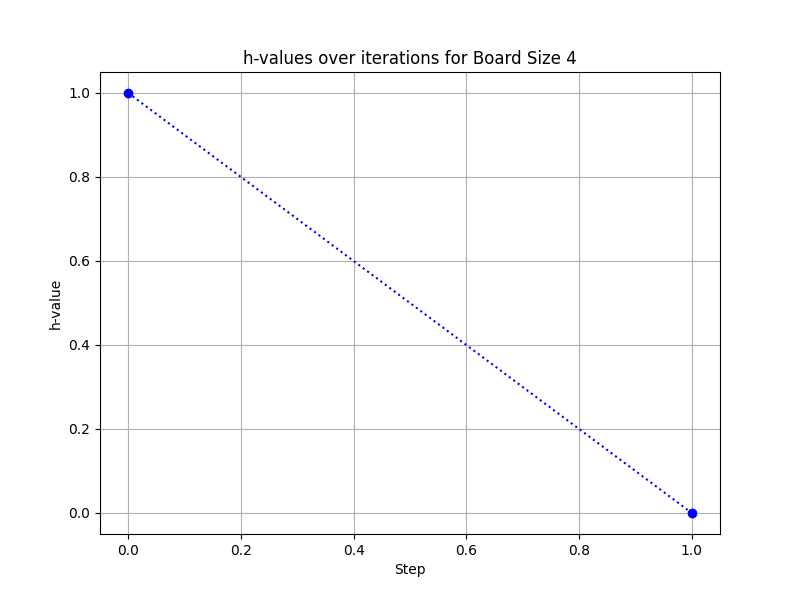
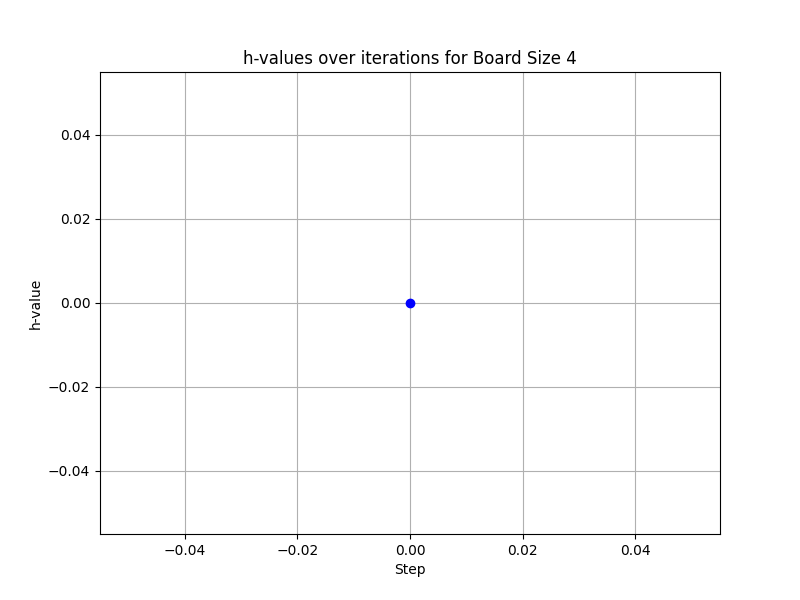
Added genetics and images

diff --git a/tp5-busquedas-locales/code/local_search_algo/genetic/genetic.py b/tp5-busquedas-locales/code/local_search_algo/genetic/genetic.py
@@ -1,131 +1,122 @@
 from chess_board_state import ChessBoardState
 from local_search_algo.utils import random_successor_chess_board
 from local_search_algo.local_search_result import LocalSearchResult
-from typing import List, Tuple
 import random
 import time
-import math
 
 
-def populate(
-    initial_board, 
-    population_size) -> List[ChessBoardState]:
-    """Given the initial board, generates a random population"""
+def get_best_individual(population):
+    return min(population, key=lambda individual: fitness(individual))
 
-    population = [initial_board]
 
-    for _ in range(population_size - 1):
-        population.append(random_successor_chess_board(initial_board))
-
-    return population
-
-def selection_ranking(population, size):
+def get_mating_pool(population):
+    """Returns mating individuals by their rank"""
     ranked_population = sorted(
         population, 
         key=lambda board: board.cached_threats)
 
-    num_individuals = len(population)
-    probabilities = [1/(i+1) for i in range(num_individuals)]
-    selected_individuals = random.choices(
+    pool_size = len(population)
+    probabilities = [1/(i+1) for i in range(pool_size)]
+    mating_pool = random.choices(
         ranked_population, 
         weights=probabilities, 
-        k=size)
-    return selected_individuals
+        k=pool_size)
+    
+    return mating_pool
 
-def crossover(parent1, parent2) -> Tuple[ChessBoardState, ChessBoardState]:
+
+def fitness(individual) -> float:
+    return individual.cached_threats
+
+
+def reproduce(individual_x, individual_y):
+    """Crossover operation"""
+    n = individual_x.size
 
     # Crossover index
-    i = random.randrange(1, parent1.size)
-
-    child1_columns = parent1.columns[:i] + parent2.columns[i:] 
-    child2_columns = parent2.columns[:i] + parent1.columns[i:]
-    return (
-        ChessBoardState(
-            size=parent1.size, 
-            columns=child1_columns),
-        ChessBoardState(
-            size=parent1.size, 
-            columns=child2_columns))
-
-def uniform_crossover(parent1, parent2):
-    child1_columns = []
-    child2_columns = []
-    for i in range(parent1.size):
-        if random.random() < 0.5:
-            child1_columns.append(parent1.columns[i])
-            child2_columns.append(parent2.columns[i])
-        else:
-            child1_columns.append(parent2.columns[i])
-            child2_columns.append(parent1.columns[i])
-    return (
-        ChessBoardState(
-            size=parent1.size, 
-            columns=child1_columns),
-        ChessBoardState(
-            size=parent1.size, 
-            columns=child2_columns))
+    i = random.randrange(1, n)
+    child_columns = individual_x.columns[:i] + individual_y.columns[i:] 
+    return ChessBoardState(size=n, columns=child_columns)
 
 
-def mutate(board):
-    """Swaps two columns"""
-    n = board.size
-    mutated_cols = board.columns[:]
-    col1, col2 = random.sample(range(n), 2)
-    mutated_cols[col1], mutated_cols[col2] = mutated_cols[col2], mutated_cols[col1]
-    return ChessBoardState(
-        size=board.size, 
-        columns=mutated_cols)
+def mutate(individual):
+    """Moves a queen along it's column"""
+    n = individual.size
+    mutation_column_index = random.randrange(0, n)
+    current_row = individual.columns[mutation_column_index]
+
+    # Ensures that a new row value is selected
+    new_row = None
+    while new_row is None or new_row == current_row:
+        new_row = random.randrange(0, n)
+
+    individual.columns[mutation_column_index] = new_row
+    individual.recalculate_threats()
 
 
-def search_best_individual(population):
-    best_board = population[0]
-    best_board.recalculate_threats()
-    for i in range(1, len(population)):
-        board = population[i]
-        board.recalculate_threats()
-        if board.cached_threats < best_board.cached_threats:
-            best_board = board
+def get_next_generation(parents, children, elite_percentage=0.1):
+    """Keeps the best X% of parents and adds children"""
+    elite_size = int(elite_percentage * len(parents))  # Keep top 10% of parents as elite
+    random_size = len(children) - elite_size  # Fill the rest with children
 
-    return best_board
+    sorted_parents = sorted(parents, key=lambda parent: fitness(parent))
+    new_population = sorted_parents[:elite_size]  # Keep the best
+    
+    # Randomly select from the rest of the children to maintain diversity
+    new_population += random.sample(children, random_size)
+    
+    return new_population
+
+
 
 def genetic(
         initial_board: ChessBoardState,
-        maximum_states: int = 100,
-        population_size: int = 50,
-        mutation_rate: float = 0.05) -> LocalSearchResult:
+        maximum_states: int = 200,
+        population_size: int = 200,
+        children_per_generation: int = 200,
+        initial_mutation_rate: float = 0.40) -> LocalSearchResult:
 
     result = LocalSearchResult()
     result.board = initial_board
     t0 = time.time()
-
-    # population = populate(initial_board, population_size)
+    population_size = 30 * initial_board.size
+    children_per_generation = population_size - 10
+    # Creates random population
     population = []
-    for i in range(population_size):
-        population.append(ChessBoardState(initial_board.size, seed=i))
+    for _ in range(population_size):
+        population.append(ChessBoardState(initial_board.size))
+
+    best_individual = None
 
     for generation in range(maximum_states):
 
-        # Checks if there is a solution individual
-        result.board = search_best_individual(population)
-        result.h_values.append(result.board.cached_threats)
-        if result.board.cached_threats == 0:
+        # Checks if there is a solution individual --------------------------------
+        best_individual = get_best_individual(population)
+        result.h_values.append(fitness(best_individual))
+        if fitness(best_individual) == 0:
             break
+        
+        # Creates all the new children --------------------------------------------
+        mutation_rate = initial_mutation_rate * (1.0 - generation / maximum_states)
+        mating_pool = get_mating_pool(population)
+        children = []
+        for _ in range(children_per_generation):
 
-        # Selects the most suitable parents based on their score
-        best_individuals = selection_ranking(population, int(population_size * 0.2))
+            # Selects parents
+            parent1 = random.choice(mating_pool)
+            parent2 = random.choice(mating_pool)
 
-        successors = []
-        for i in range(0, len(population) - len(best_individuals), 2):
-            parent1 = population[i]
-            parent2 = population[i + 1]
-            child1, child2 = uniform_crossover(parent1, parent2)
-            successors.append(child1)
-            successors.append(child2)
-        successors.extend(best_individuals)
-        # Mutation
-        population = [mutate(board) if random.random() < mutation_rate else board for board in population]
-        # population = selection_ranking(population, population_size)
-        population.sort(key=lambda board: board.cached_threats, reverse=True)
+            child = reproduce(parent1, parent2)
+            # Mutates
+            if random.random() < mutation_rate:
+                mutate(child)
+
+            children.append(child)
+
+        # Updates the population with children
+        population = get_next_generation(population, children)
+
     result.traversed_states = generation + 1
     result.time_taken = time.time() - t0
+    result.board = best_individual
     return result

diff --git a/tp5-busquedas-locales/code/main.py b/tp5-busquedas-locales/code/main.py
@@ -56,7 +56,7 @@ def simulated_annealing_test(board):
 
 def genetic_test(board):
     print("RUNNING: GENETIC")
-    result: LocalSearchResult = genetic(board, maximum_states=10)
+    result: LocalSearchResult = genetic(board)
 
     print(f"Traversed {result.traversed_states} states in {result.time_taken} seconds")
 
@@ -114,11 +114,11 @@ def _save_results(results, queen_counts):
 def test_and_save():
 
     queen_counts = [4, 8, 10, 12, 15]
-    maximum_states = 200
+    maximum_states = 800
     algorithms = {
-        # "hill_climb": lambda board: hill_climb(board, maximum_states, maximum_shoulder_iterations=10),
+        "hill_climb": lambda board: hill_climb(board, maximum_states, maximum_shoulder_iterations=10),
         # "random_restart_hill_climb": lambda board: random_restart_hill_climb(board, maximum_states, maximum_shoulder_iterations=10),
-        # "simulated_annealing": lambda board: simulated_annealing(board, maximum_states, maximum_iterations=maximum_states),
+        "simulated_annealing": lambda board: simulated_annealing(board, maximum_states, maximum_iterations=maximum_states),
         "genetic": lambda board: genetic(board, maximum_states)
     }
 
@@ -138,8 +138,8 @@ def test_and_save():
     _save_results(results, queen_counts)
 
 if __name__ == "__main__":
-    # test_and_save()
-    board = ChessBoardState(4)
-    genetic_test(board)
+    test_and_save()
+    # board = ChessBoardState(8)
+    # genetic_test(board)
 
 

diff --git a/tp5-busquedas-locales/code/local_search_algo/simulated_annealing/simulated_annealing.py b/tp5-busquedas-locales/code/local_search_algo/simulated_annealing/simulated_annealing.py
@@ -29,20 +29,14 @@ def simulated_annealing(
 
         delta_e = successor_board.cached_threats - current_board.cached_threats
         next_board = None
-        # T = 1.0 / (t * 0.2)#schedule(t, 0.5)
-        # T = pow(10, 1.4) / t#schedule(t, 0.5)
-        # T = 23 / t
         T = T * 0.95
-        # T = schedule(t, 0.5)
         
         # When successor gets closer to local minimum or same (shoulders)
         if delta_e <= 0.0:
             next_board = successor_board
         else:
             probability = math.exp(-delta_e / T)
-            print(probability)
             r = random.random()
-            # print(f"T: {T}, probability: {probability}")
             if r < probability:
                 next_board = successor_board
             else:
